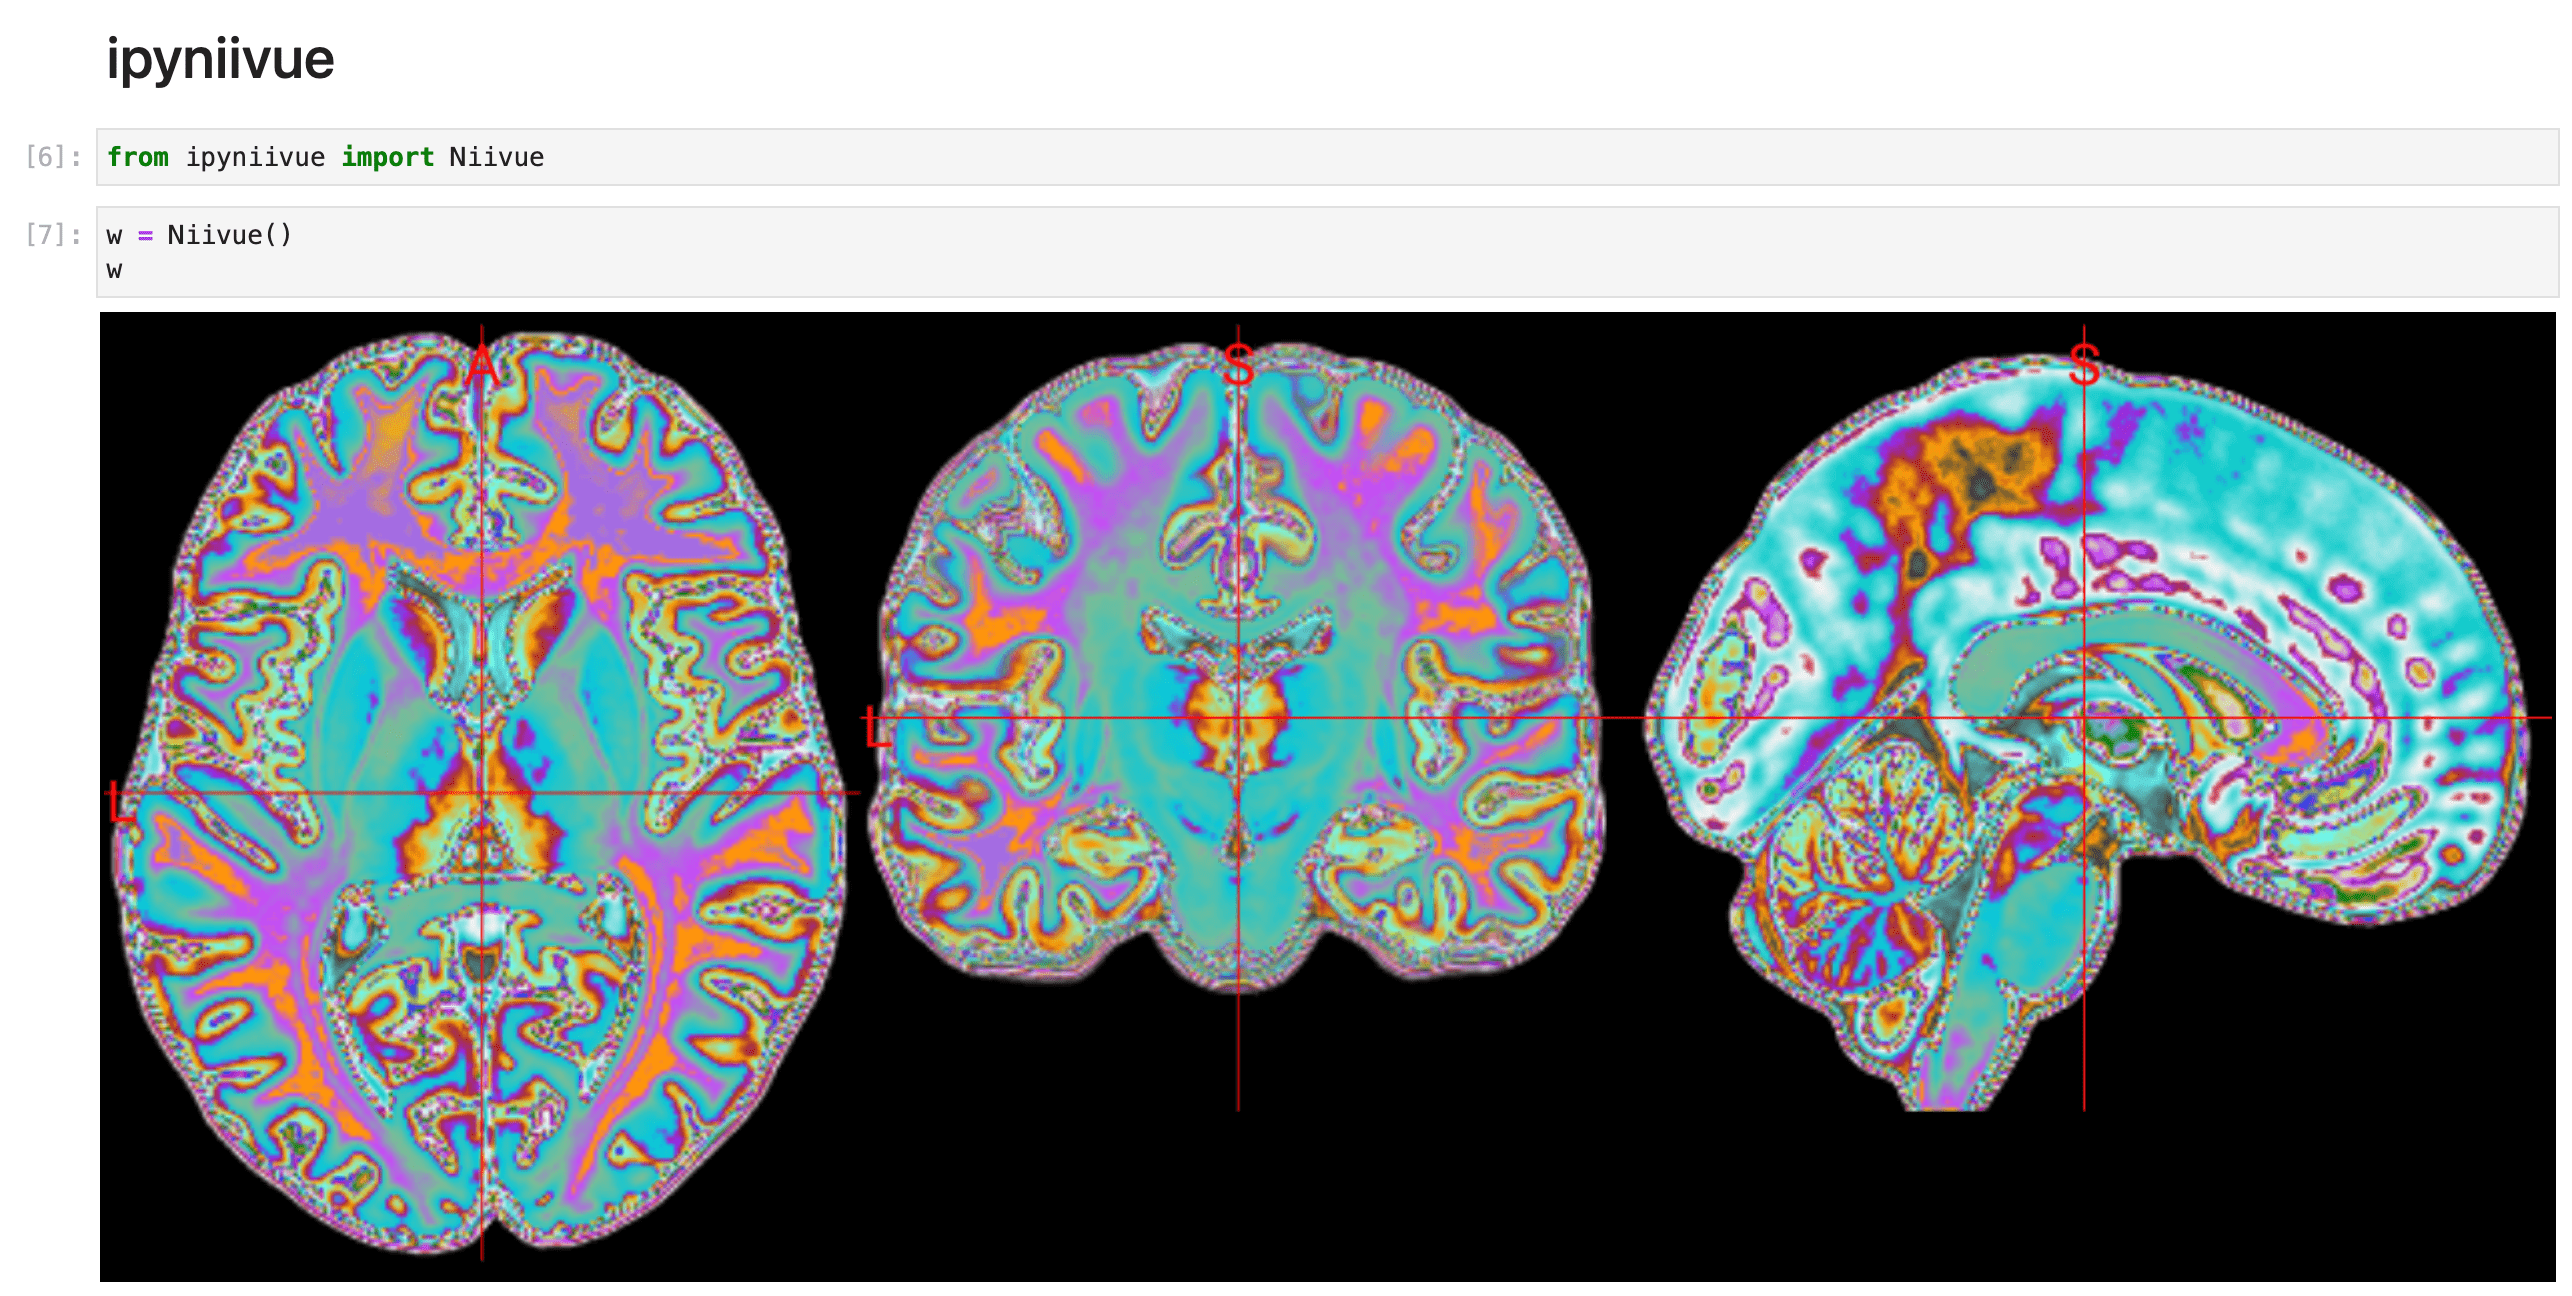
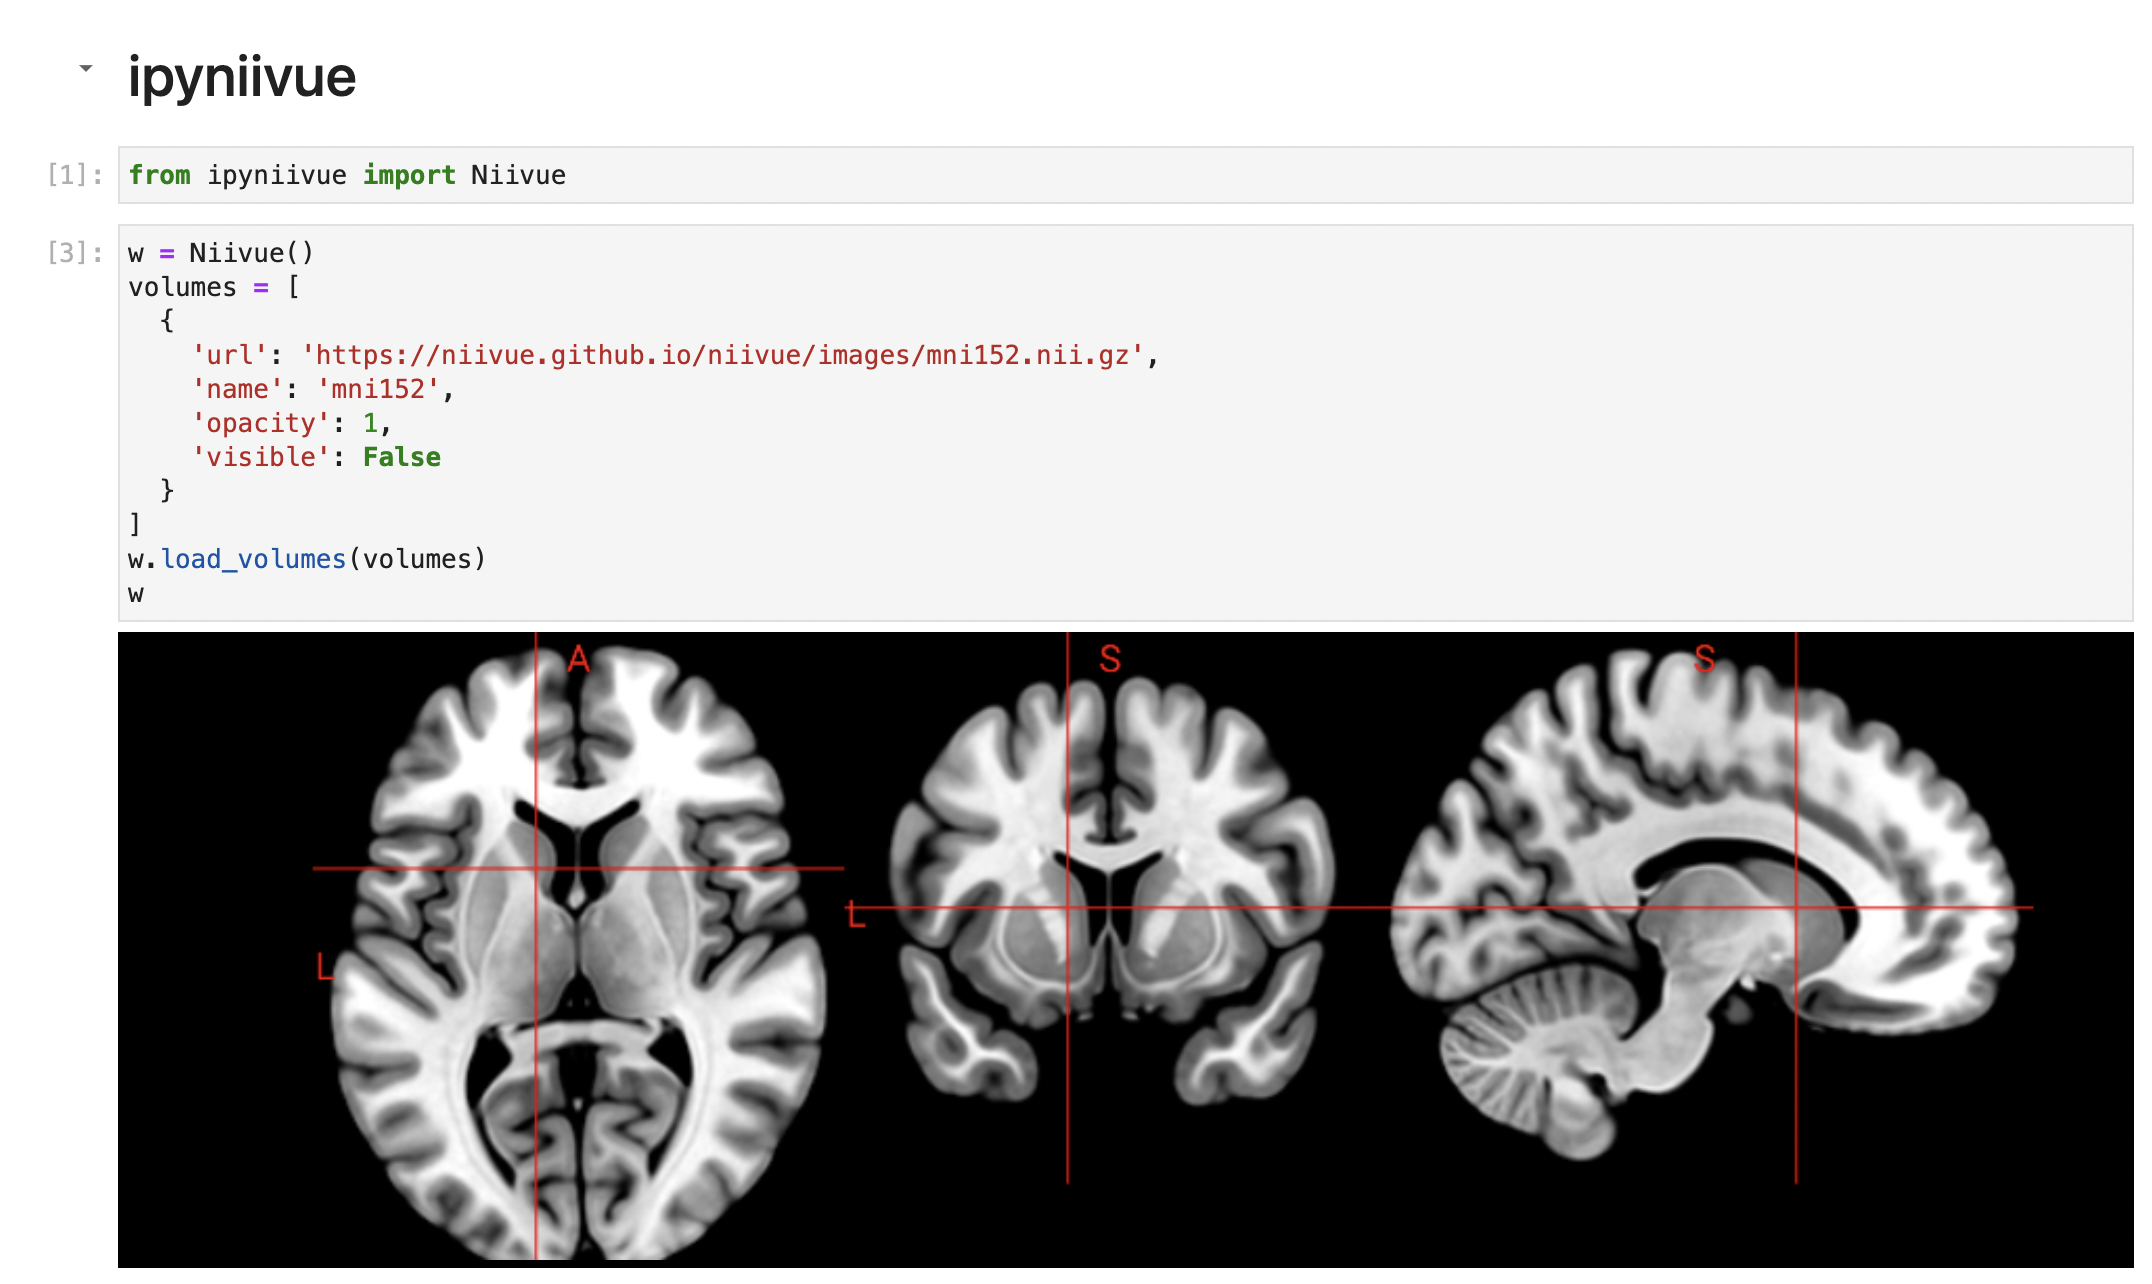
start working on api
still have rendering issue...

diff --git a/src/widget.ts b/src/widget.ts
@@ -24,7 +24,8 @@ export class NiivueModel extends DOMWidgetModel {
       _view_name: NiivueModel.view_name,
       _view_module: NiivueModel.view_module,
       _view_module_version: NiivueModel.view_module_version,
-      height: 480,
+      volumes: [],
+      height: 300
     };
   }
 
@@ -36,37 +37,39 @@ export class NiivueModel extends DOMWidgetModel {
   static model_name = 'NiivueModel';
   static model_module = MODULE_NAME;
   static model_module_version = MODULE_VERSION;
-  static view_name = 'NiivueView'; // Set to null if no view
-  static view_module = MODULE_NAME; // Set to null if no view
+  static view_name = 'NiivueView';
+  static view_module = MODULE_NAME;
   static view_module_version = MODULE_VERSION;
 }
 
 export class NiivueView extends DOMWidgetView {
-  private _niivueInput: HTMLCanvasElement;
+  private _canvas: HTMLCanvasElement;
+  private _nv: any;
 
   render() {
-    this._niivueInput = document.createElement('canvas');
-    this.el.appendChild(this._niivueInput);
+    this._canvas = document.createElement('canvas');
+    this.el.appendChild(this._canvas);
     this.el.classList.add('custom-widget');
 
-    const nv = new Niivue();
-    nv.attachToCanvas(this._niivueInput);
+    this._nv = new Niivue();
+    this._nv.attachToCanvas(this._canvas);
 
-    this._niivueInput.height = 480;
-    //this._niivueInput.width = 640;
+    this.volumes_changed();
+    this.height_changed();
+    
+    this.model.on('change:volumes', this.volumes_changed, this);
+    this.model.on('change:height', this.height_changed, this);
+    
+    //const ctx = this._canvas.getContext('2d');
+    //ctx.fillStyle = "rgb(200, 0, 0)";
+    //ctx.fillRect(10, 10, 50, 50);
+  }
 
-    const volumeList = [
-      {
-        url: 'https://niivue.github.io/niivue/images/mni152.nii.gz',
-        volume: { hdr: null, img: null },
-        name: 'mni152',
-        colorMap: 'freesurfer',
-        opacity: 1,
-        visible: true,
-      },
-    ];
+  volumes_changed() {
+    this._nv.loadVolumes(this.model.get('volumes'));
+  }
 
-    nv.setSliceType(nv.sliceTypeMultiplanar);
-    nv.loadVolumes(volumeList);
+  height_changed() {
+    this._canvas.height = this.model.get('height');
   }
 }

diff --git a/ipyniivue/widget.py b/ipyniivue/widget.py
@@ -9,7 +9,8 @@ TODO: Add module docstring
 """
 
 from ipywidgets import DOMWidget, ValueWidget, register
-from traitlets import Unicode, Bool, validate, TraitError, Int
+from traitlets import Unicode, List, Int
+from .traits import Volume
 
 from ._frontend import module_name, module_version
 
@@ -23,7 +24,14 @@ class Niivue(DOMWidget, ValueWidget):
     _view_module = Unicode(module_name).tag(sync=True)
     _view_module_version = Unicode(module_version).tag(sync=True)
 
-    height = Int(480).tag(sync=True)
-    #width = Int(640).tag(sync=True)
-    #value = Unicode('example@example.com').tag(sync=True)
-    #disabled = Bool(False, help="Enable or disable user changes.").tag(sync=True)
+    volumes = List(trait=Volume, default_value=[]).tag(sync=True)
+    height = Int(default_value=300).tag(sync=True)
+
+    def __init__(self):
+        super(Niivue, self).__init__()
+
+    def load_volumes(self, volumes):
+        self.volumes = volumes
+
+    def set_height(self, height):
+        self.height = height

diff --git a/ipyniivue/traits.py b/ipyniivue/traits.py
@@ -1,0 +1,12 @@
+from traitlets import TraitType, List
+
+class Volume(TraitType):
+	default_value = {}
+	info_text = 'a volume'
+
+	def validate(self, obj, value):
+		accepted_keys = {'url', 'volume', 'name', 'color_map', 'opacity', 'visible'}
+		if isinstance(value, dict):
+			if len(value.keys()-accepted_keys) == 0:
+				return value
+		self.error(obj, value)
